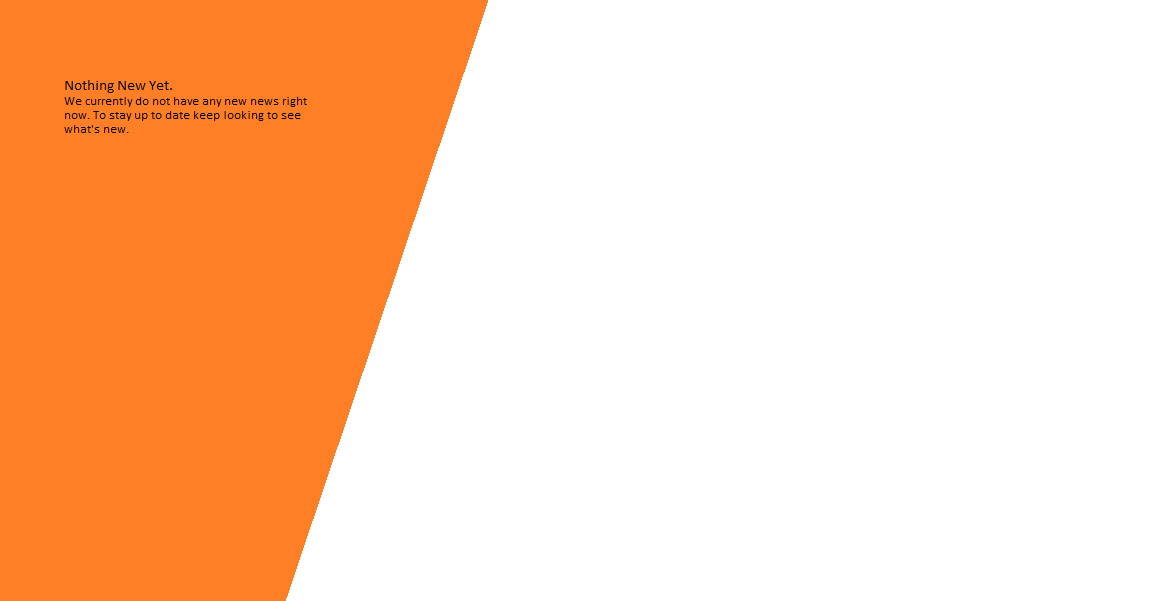
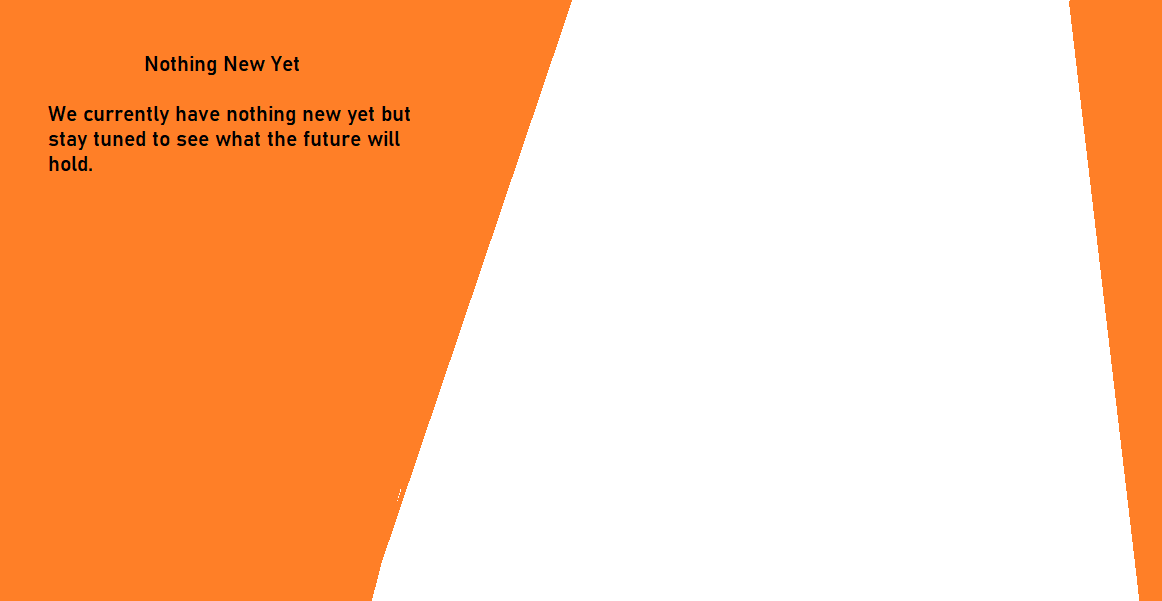
added some images and changed carousel

Changed region(s): [[0.031, 0.0, 0.4957, 1.0], [0.8985, 0.0, 1.0, 1.0]]

diff --git a/index.html b/index.html
@@ -59,44 +59,27 @@
         <h1 class="welcome">Welcome to Custom Crafts</h1>
       </main>
       <news>
-        <div id="carouselExampleCaptions" class="carousel carousel-dark slide" data-bs-ride="false">
-            <div class="carousel-indicators">
-              <button type="button" data-bs-target="#carouselExampleCaptions" data-bs-slide-to="0" class="active" aria-current="true" aria-label="Slide 1"></button>
-              <button type="button" data-bs-target="#carouselExampleCaptions" data-bs-slide-to="1" aria-label="Slide 2"></button>
-              <button type="button" data-bs-target="#carouselExampleCaptions" data-bs-slide-to="2" aria-label="Slide 3"></button>
+        <div id="carouselExampleControls" class="carousel carousel-dark slide" data-bs-ride="carousel">
+          <div class="carousel-inner">
+            <div class="carousel-item active">
+              <img src="/img/Nothing.png" class="d-block w-100" alt="...">
             </div>
-            <div class="carousel-inner">
-              <div class="carousel-item active">
-                <img src="..." class="d-block w-100" alt="...">
-                <div class="carousel-caption d-none d-md-block">
-                  <h5>Test</h5>
-                  <p>Testing for that purpose only for the time being</p>
-                </div>
-              </div>
-              <div class="carousel-item">
-                <img src="..." class="d-block w-100" alt="...">
-                <div class="carousel-caption d-none d-md-block">
-                  <h5>Second slide label</h5>
-                  <p>Some representative placeholder content for the second slide.</p>
-                </div>
-              </div>
-              <div class="carousel-item">
-                <img src="..." class="d-block w-100" alt="...">
-                <div class="carousel-caption d-none d-md-block">
-                  <h5>Third slide label</h5>
-                  <p>Some representative placeholder content for the third slide.</p>
-                </div>
-              </div>
+            <div class="carousel-item">
+              <img src="img/Nothing.png" class="d-block w-100" alt="...">
             </div>
-            <button class="carousel-control-prev" type="button" data-bs-target="#carouselExampleCaptions" data-bs-slide="prev">
-              <span class="carousel-control-prev-icon" aria-hidden="true"></span>
-              <span class="visually-hidden">Previous</span>
-            </button>
-            <button class="carousel-control-next" type="button" data-bs-target="#carouselExampleCaptions" data-bs-slide="next">
-              <span class="carousel-control-next-icon" aria-hidden="true"></span>
-              <span class="visually-hidden">Next</span>
-            </button>
+            <div class="carousel-item">
+              <img src="img/Nothing.png" class="d-block w-100" alt="...">
+            </div>
           </div>
+          <button class="carousel-control-prev" type="button" data-bs-target="#carouselExampleControls" data-bs-slide="prev">
+            <span class="carousel-control-prev-icon" aria-hidden="true"></span>
+            <span class="visually-hidden">Previous</span>
+          </button>
+          <button class="carousel-control-next" type="button" data-bs-target="#carouselExampleControls" data-bs-slide="next">
+            <span class="carousel-control-next-icon" aria-hidden="true"></span>
+            <span class="visually-hidden">Next</span>
+          </button>
+        </div>
       </news>
 
       <main>
